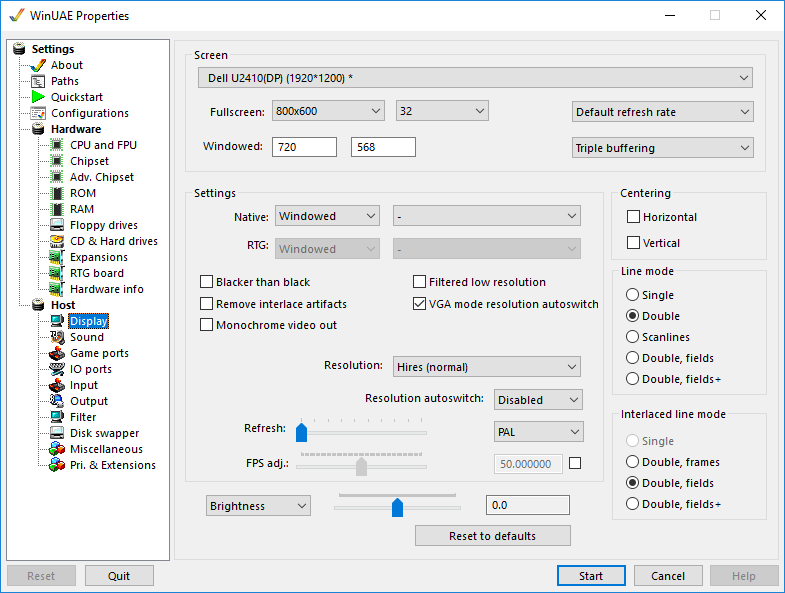
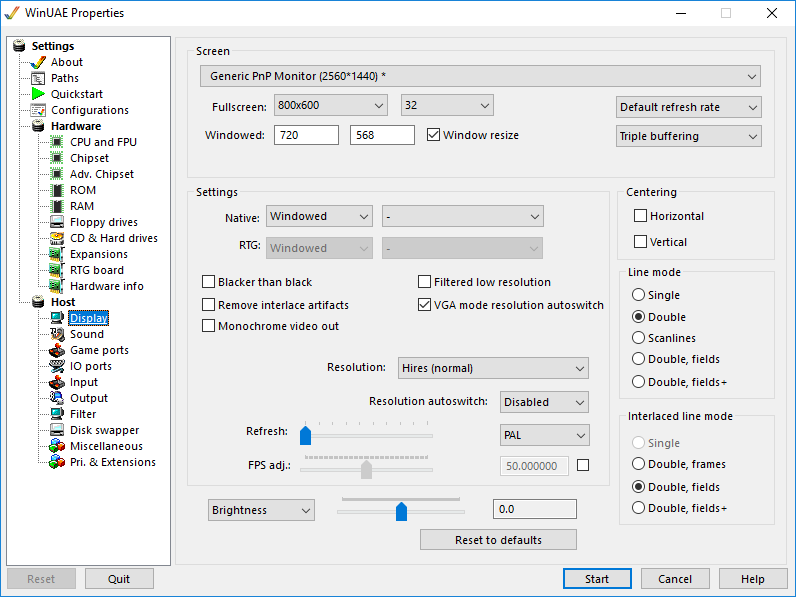
Latest changes for Winuae 4.2.0

diff --git a/gui/rom.htm b/gui/rom.htm
@@ -25,6 +25,11 @@
     support, so you don't have to KickShift your ROM-images. This
     also allows Amiga Forever users (encrypted ROM-images can't be
     KickShift'ed) to use ShapeShifter.</p>
+    <h1>Advanced Custom ROM Settings</h1>
+    <p><strong>ROM Number </strong>select a custom rom from 1 to 4.<br>
+      <strong>Address Range </strong>can be used to select a memory address range for ROM code to occupy. See <a href="http://amigadev.elowar.com/read/ADCD_2.1/Hardware_Manual_guide/node00D2.html">memory maps</a>.<br>
+      <strong>ROM file </strong>is the selected rom file to be loaded.<br>
+    </p>
     <h1>Miscellaneous</h1>
     <p><strong>Cartridge ROM File</strong> will allow to add Action
     Replay ROM files<br>

diff --git a/gui/display.htm b/gui/display.htm
@@ -19,6 +19,7 @@
     screen Default).<br>
     <strong>Windowed</strong> This lets you change the resolution
     used for the Amiga displayed in a Window on the PC screen.<br>
+    <strong>Window resize</strong> allows window to be resized after starting emulation ( to keep aspect ratio, press CTL key while resizing window).<br>
     <strong>Refresh rate</strong> can be set to default, 56Hz, 60Hz
     NTSC, 72Hz or 75Hz.<br>
     <strong>Buffering</strong>. Select type of buffering required:

diff --git a/gui/misc.htm b/gui/misc.htm
@@ -103,6 +103,7 @@
     font using Windows font selection window.<br>
     <strong>Set default.</strong> Set the default font.<br>
     <strong>Select</strong> font size from 60% to 140%.<br>
+    <strong>Reset list customizations</strong>. Reset list customizations to defaults. <br>
     <strong>Resizable GUI</strong> option to allow you expand or
     shrink the WinUAE Window.<br>
     <strong>Fullscreen GUI</strong> option to expand the WinUAE

diff --git a/gui/quickstart.htm b/gui/quickstart.htm
@@ -36,6 +36,7 @@
     <strong>Disk drive DF1:</strong> - Click 'Select Disk Image' to
     load an ADF file in to drive DF1 (see Disk Drives). You may
     Write protect or Eject disks as well.</p>
+    <p><strong>Set configuration - </strong>Sets the default configuation for retreival.</p>
     <h1>Mode</h1>
     <p><strong>Start in Quickstart mode</strong> - If enabled, then
     the Quickstart mode is the default.</p>
